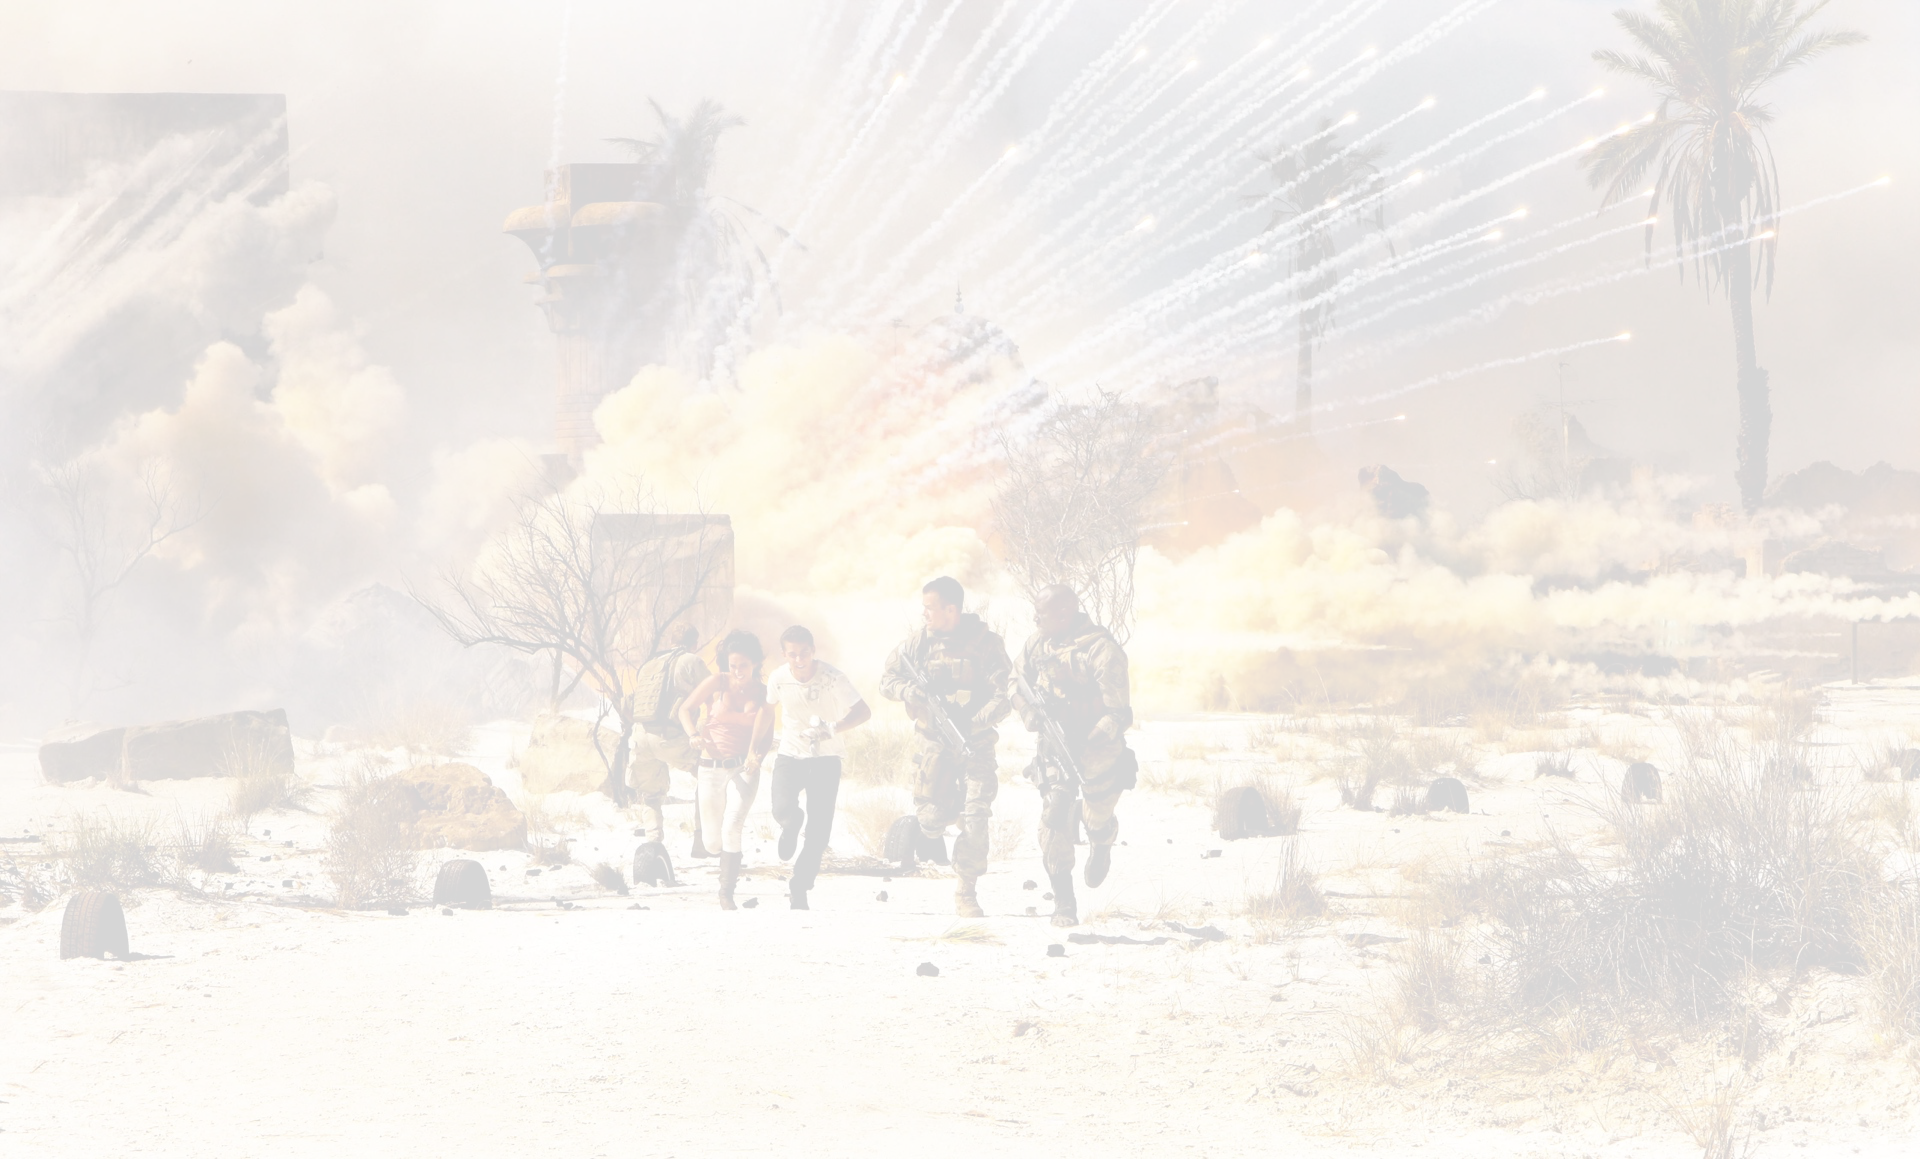
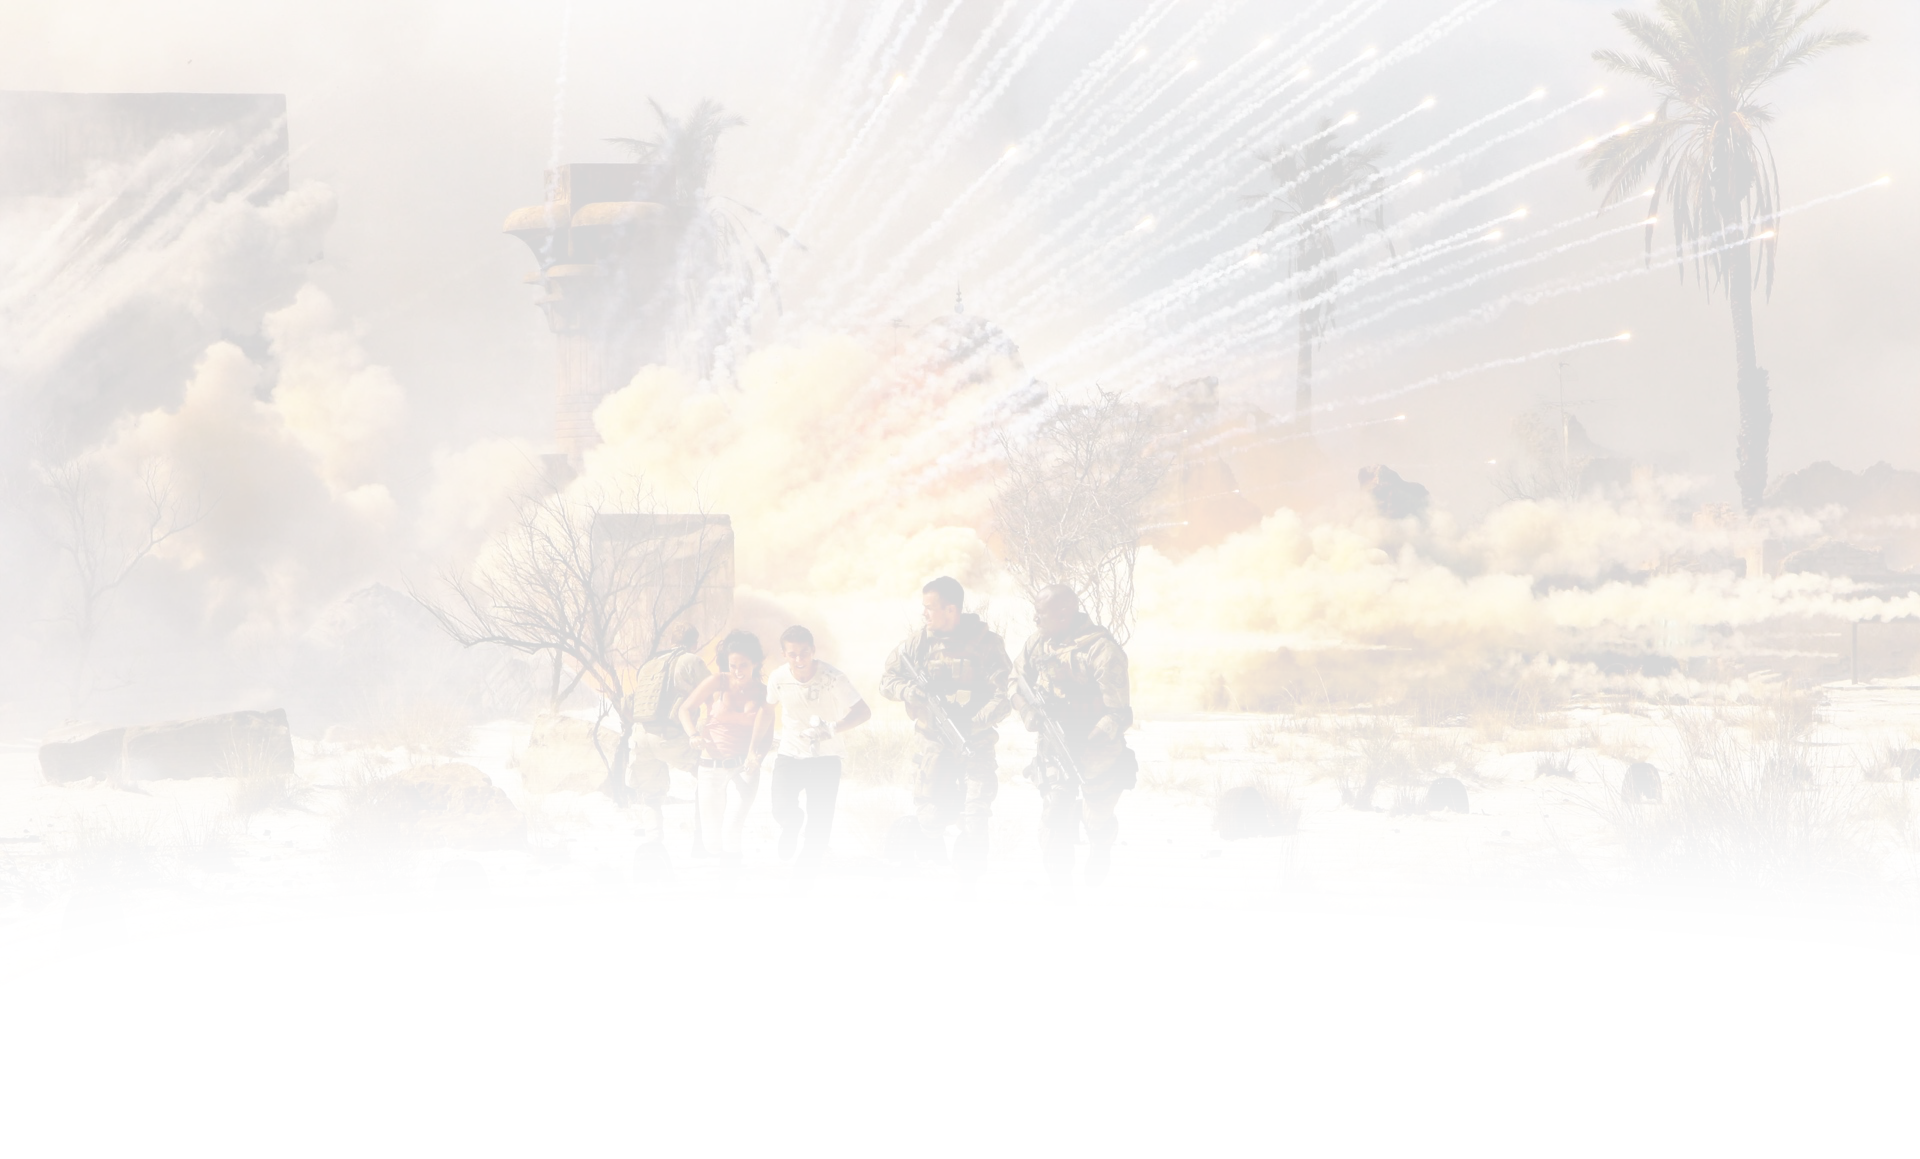
BGimg added

Changed region(s): [[0.0, 0.6833, 1.0, 1.0], [0.7188, 0.6833, 0.75, 0.7144], [0.5312, 0.8697, 0.5625, 0.9008]]

diff --git a/src/Components/App/App.js b/src/Components/App/App.js
@@ -3,6 +3,7 @@ import AppContainer from '../StyledComponents/AppContainer';
 import Header from './Header';
 import MovieList from './MovieList';
 import SliderBestMovies from './SliderBestMovies';
+import BgImg from '../StyledComponents/BgImg';
 
 const App = () => {
   const [search, setSearch] = useState();
@@ -10,6 +11,7 @@ const App = () => {
 
   return (
     <AppContainer>
+      <BgImg src="icons-img/backgroundimg.png" />
       <Header
         handleSubmit={(e) => {
           e.preventDefault();

diff --git a/src/Components/StyledComponents/BgImg.js b/src/Components/StyledComponents/BgImg.js
@@ -1,0 +1,8 @@
+import styled from '@emotion/styled';
+
+const BgImg = styled.img`
+width: 100%;
+position: absolute;
+`;
+
+export default BgImg;
